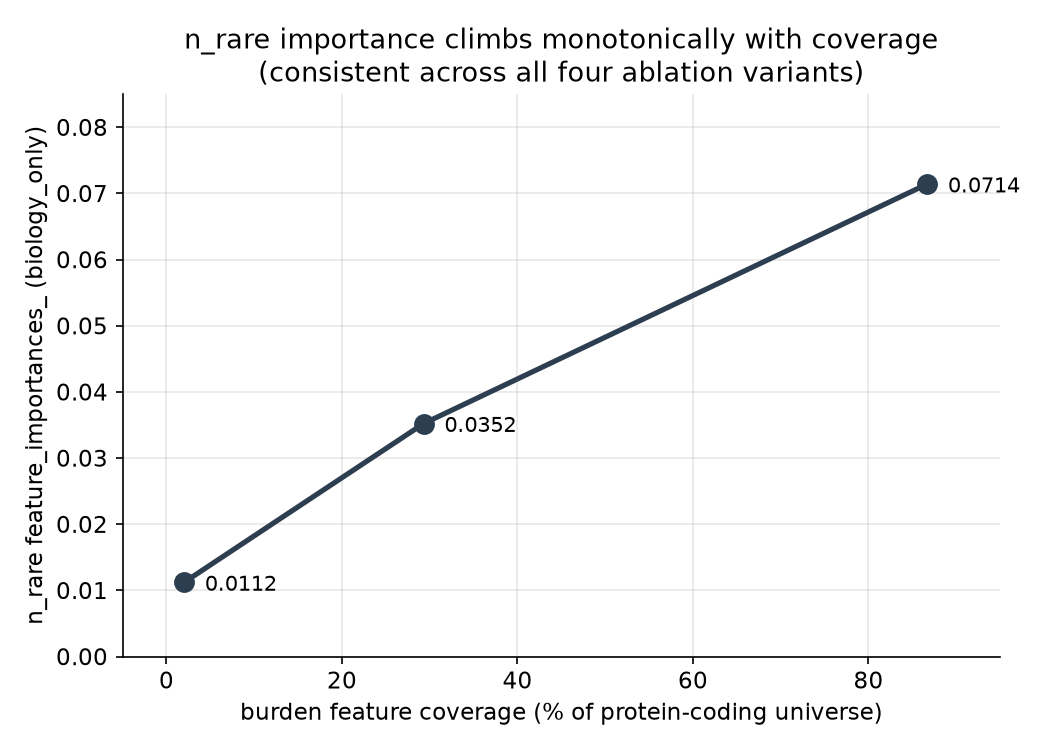
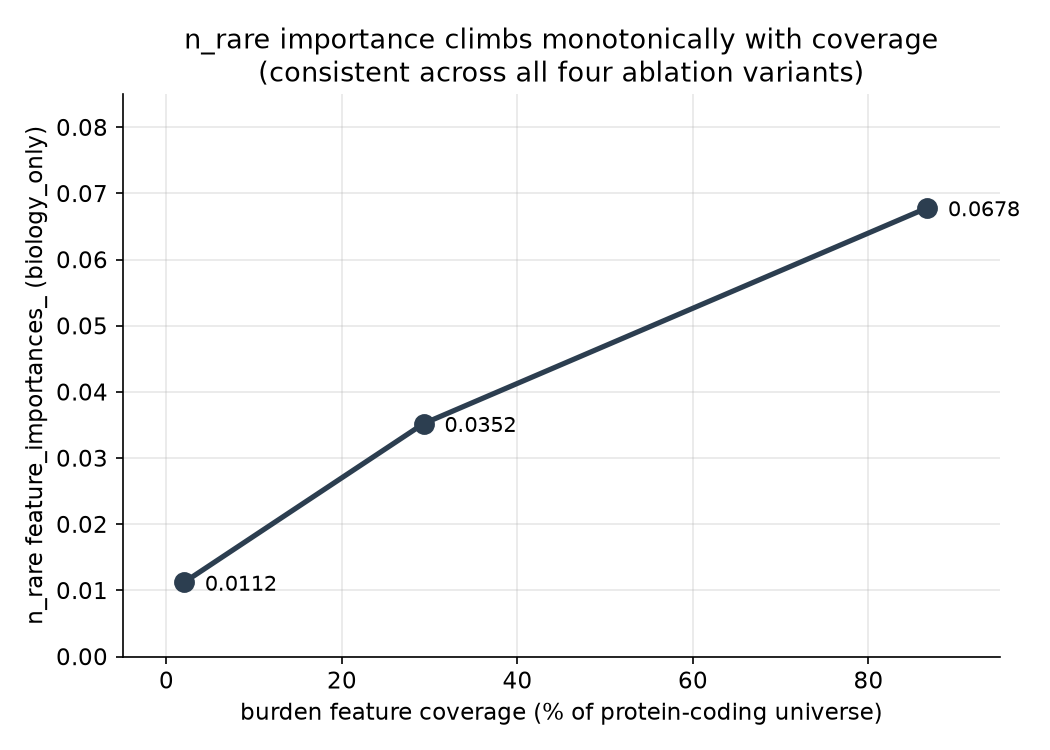
Fix remaining stale numbers from the Jul 21 training-table rebuild
Same root cause as the last fix: disorder_fraction's refetch shifted
downstream numbers that were computed before the rebuild but never
updated afterward.

- Median-split table (README) and its forest plot: all four variants'
  lift/CI were stale (all_features 5.28->5.26, no_pubcount 5.62->5.60,
  no_pubcount_no_string CI lower 3.34->3.27, biology_only 2.76->2.68).
  Verified against live `ml/train_eval.py --compare` output.
- n_rare importance trend (README) and its figure: third stage was
  0.0714, live value is 0.0678. First two stages remain as documented,
  their source logs no longer exist and are not independently
  re-verifiable (make_figures.py docstring already discloses this).
- Bootstrap stability selection (README + DESIGN.md 12.1): the "96 to
  100% across all four variants" claim was false against live numbers.
  Reworded to the actual picture: biology_only holds every core feature
  at 98-100%, but all_features drops the three gnomAD constraint
  metrics out of the top 10 entirely, no_pubcount and
  no_pubcount_no_string each dip one feature to 64-74%, and
  ppi_betweenness (previously called "least stable") is actually 100%
  stable in both variants that include it.

docs/figures/*.png regenerated via ml/make_figures.py and visually
verified against the corrected text; enrichment_curve.png was already
correct and regenerated byte-identical.

Changed region(s): [[0.5181, 0.2147, 0.9752, 0.4907], [0.4267, 0.4907, 0.5181, 0.552]]

diff --git a/ml/make_figures.py b/ml/make_figures.py
@@ -82,9 +82,9 @@ def forest_plot():
     nearly touch rather than cleanly separate (Q2, weaker than before
     disorder_fraction was added, see README.md Q2 section)."""
     variants = ["all_features", "no_pubcount", "no_pubcount_no_string", "biology_only"]
-    lift = np.array([5.28, 5.62, 4.52, 2.76])
-    ci_lo = np.array([3.99, 4.15, 3.34, 2.17])
-    ci_hi = np.array([7.76, 8.13, 7.04, 4.00])
+    lift = np.array([5.26, 5.60, 4.52, 2.68])
+    ci_lo = np.array([3.97, 4.16, 3.27, 2.17])
+    ci_hi = np.array([7.65, 8.21, 7.04, 3.85])
 
     y_pos = np.arange(len(variants))[::-1]
 
@@ -126,7 +126,7 @@ def n_rare_trend():
              the only stage still reproducible from the current repo state)
     """
     coverage = np.array([2.0, 29.3, 86.68])
-    importance = np.array([0.0112, 0.0352, 0.0714])
+    importance = np.array([0.0112, 0.0352, 0.0678])
 
     fig, ax = plt.subplots(figsize=(7, 5), dpi=150)
 

diff --git a/README.md b/README.md
@@ -205,10 +205,10 @@ Same pool, same 338 prospective positives, same thresholds, same resampled basel
 
 | variant | bottom-half lift | 95% CI |
 |---|---|---|
-| all_features | 5.28 | [3.99, 7.76] |
-| no_pubcount | 5.62 | [4.15, 8.13] |
-| no_pubcount_no_string | 4.52 | [3.34, 7.04] |
-| biology_only | 2.76 | [2.17, 4.00] |
+| all_features | 5.26 | [3.97, 7.65] |
+| no_pubcount | 5.60 | [4.16, 8.21] |
+| no_pubcount_no_string | 4.52 | [3.27, 7.04] |
+| biology_only | 2.68 | [2.17, 3.85] |
 
 ![Forest plot of median-split lift by feature set, with 95% CIs and a reference line at 1.0.](docs/figures/median_split_forest.png)
 
@@ -216,13 +216,13 @@ Every variant clears 1.0 (real signal, not study bias). `biology_only` and `all_
 
 ### n_rare importance trend, SHAP, stability selection, and secondary checks
 
-`n_rare`'s feature importance in `biology_only` climbed monotonically with burden coverage across three stages of this project: 0.0112 (2.0%) -> 0.0352 (29.3%) -> 0.0714 (86.68%), consistent across all four variants.
+`n_rare`'s feature importance in `biology_only` climbed monotonically with burden coverage across three stages of this project: 0.0112 (2.0%) -> 0.0352 (29.3%) -> 0.0678 (86.68%), consistent across all four variants.
 
 ![n_rare feature importance climbing monotonically with burden coverage across three stages of this project](docs/figures/n_rare_trend.png)
 
 The 13.32% burden coverage gap is two different things, not one: 896 genes on X/Y, out of scope by design, and 1,675 that are genuine missingness (no qualifying rare variant, or a symbol gap between GFF3 and HGNC).
 
-SHAP and `feature_importances_` broadly agree on what matters. Bootstrap stability selection (50 resamples) confirms the core biology features are selected 96-100% of the time, not a lucky sample. Two smaller external-evidence checks are directionally consistent but individually underpowered (one gene, KCNMA1, is a notable n=1 anecdote: ranked top 1% and later gained a clinical-phase drug). Full numbers in DESIGN.md sections 12.1 and 12.4.
+SHAP and `feature_importances_` broadly agree on what matters. Bootstrap stability selection (50 resamples) shows real, above-noise selection, not a uniform 96-100% though: `biology_only` holds every core feature at 98-100%, while the other three variants each have at least one core feature dip to 64-74% (`n_rare` and `loeuf` in `no_pubcount`, `pLI` in `no_pubcount_no_string`), and in `all_features` the three gnomAD constraint metrics (`pLI`, `loeuf`, `oe_lof`) drop out of the top 10 entirely. Two smaller external-evidence checks are directionally consistent but individually underpowered (one gene, KCNMA1, is a notable n=1 anecdote: ranked top 1% and later gained a clinical-phase drug). Full numbers in DESIGN.md sections 12.1 and 12.4.
 
 ### Cost
 

diff --git a/DESIGN.md b/DESIGN.md
@@ -289,15 +289,24 @@ contributor was the working assumption before this run).
 **Bootstrap stability selection** (50 row-level resamples of the full
 training set, refit each time, tracks how often each feature lands in the
 top 10 by `feature_importances_`, features selected in more than 70% of
-resamples flagged as stable): the core biology features, gnomAD
-constraint (`pLI`, `loeuf`, `oe_mis`, `oe_lof`), burden (`n_rare`),
-expression (`tau`, `essentiality_score`), and structure (`protein_length`,
-`disorder_fraction`), are selected in 96 to 100% of resamples across all
-four variants. `pub_count` and `year_first_described`, where present, are
-also stable at 100%, consistent with real (if confounded) predictive
-signal rather than noise. `n_lof` and `ppi_betweenness` are the least
-stable features, near the bottom of most variants' top 10 or absent from
-it in some resamples.
+resamples flagged as stable): `tau`, `essentiality_score`,
+`protein_length`, and `disorder_fraction` hold 100% in every variant, but
+gnomAD constraint (`pLI`, `loeuf`, `oe_lof`) and `n_rare` are not
+uniformly 96-100% across variants as an earlier version of this section
+claimed. `biology_only` holds all of them at 98-100%. The other three
+variants lose ground on at least one once
+`ppi_degree`/`ppi_betweenness`/`pub_count`/`year_first_described` compete
+for a top-10 slot: `all_features` drops `pLI`, `loeuf`, and `oe_lof` out
+of the top 10 entirely and `n_rare` to 64%; `no_pubcount` keeps `loeuf`
+at 68% but still drops `pLI` and `oe_lof`, with `n_rare` at 74%;
+`no_pubcount_no_string` drops `pLI` to 64% while `loeuf`, `oe_mis`, and
+`n_rare` hold at 100%. `pub_count` and `year_first_described`, where
+present, are stable at 100%. `n_lof` is 98% stable in the two variants
+without STRING or `pub_count` (`no_pubcount_no_string`, `biology_only`)
+but doesn't clear the top 10 often enough to report in the other two.
+`ppi_betweenness`, contrary to an earlier version of this section, is
+100% stable in both variants that include it -- not the least stable
+feature.
 
 **Fetching `disorder_fraction` required a real fix, not just a flag flip.**
 `ml/fetch_alphafold.py`'s `--disorder` flag pointed at a dead AlphaFold DB
